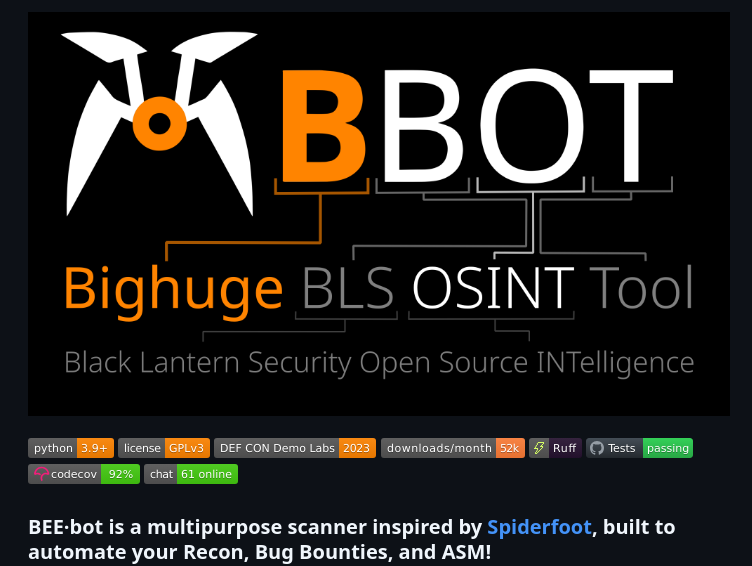
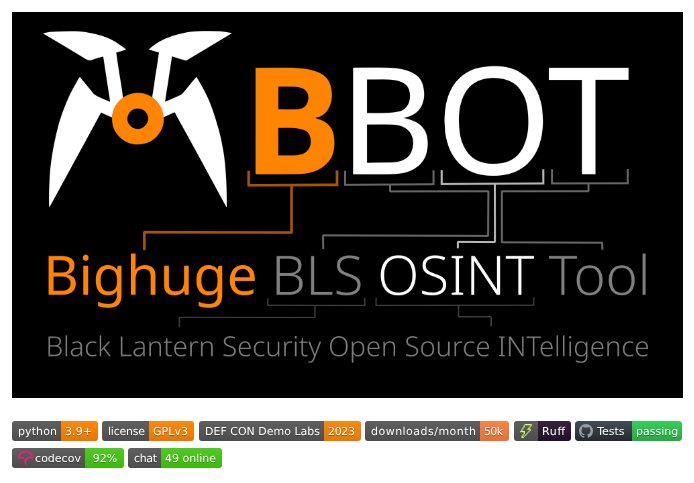
Add post: 2025-07-16-blacklanternsecurity-bbot.md

diff --git a/docs/_posts/2025-07-16-blacklanternsecurity-bbot.md b/docs/_posts/2025-07-16-blacklanternsecurity-bbot.md
@@ -1,0 +1,9 @@
+---
+layout: default
+date: 2025-07-16T04:19:45.303030
+image: assets/blacklanternsecurity_bbot_cropped.png
+---
+
+# [blacklanternsecurity/bbot](https://github.com/blacklanternsecurity/bbot)
+
+automates OSINT and recon for hackers
